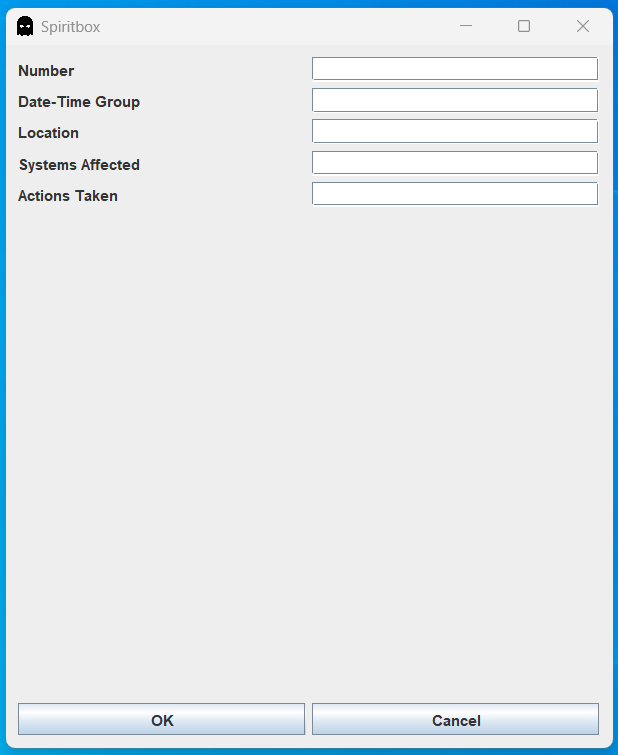
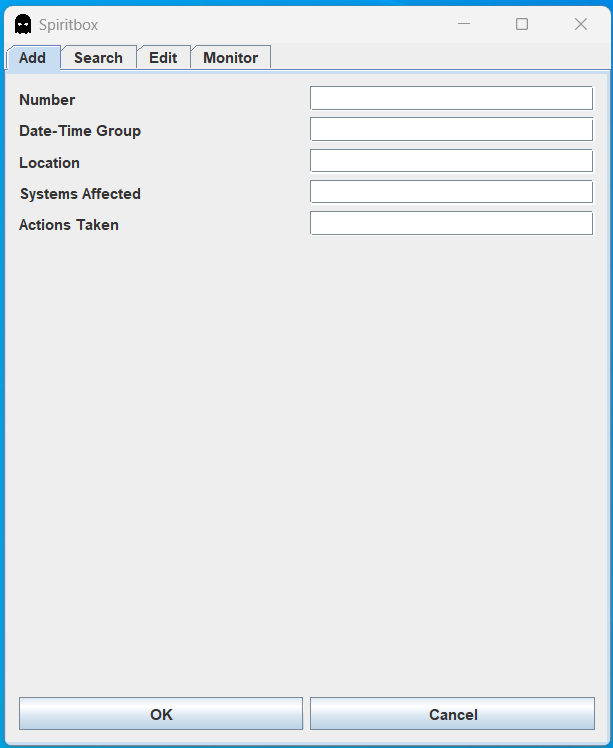
Merged tabbed pane infrastructure

Changed region(s): [[0.0, 0.0, 1.0, 1.0]]

diff --git a/src/Window.java b/src/Window.java
@@ -1,0 +1,94 @@
+import java.awt.*;
+import java.awt.event.ActionEvent;
+import java.awt.event.ActionListener;
+import java.nio.channels.AcceptPendingException;
+
+import javax.swing.*;
+
+public class Window {
+    public void display() {
+        JFrame frame = new JFrame();
+        JTabbedPane tabbedPane = new JTabbedPane(); 
+
+        ////////// Tab 1 //////////
+        JPanel tab1 = new JPanel(); 
+        JPanel tab1Form = new JPanel();
+        JPanel tab1Buttons = new JPanel();
+        JLabel lbNumber = new JLabel("Number");
+        JLabel lbDateTimeGroup = new JLabel("Date-Time Group");
+        JLabel lbLocation = new JLabel("Location");
+        JLabel lbSystemsAffected = new JLabel("Systems Affected");
+        JLabel lbActionsTaken = new JLabel("Actions Taken");
+        JTextField tfNumber = new JTextField();
+        JTextField tfDateTimeGroup = new JTextField();
+        JTextField tfLocation = new JTextField();
+        JTextField tfSystemsAffected = new JTextField();
+        JTextField tfActionsTaken = new JTextField();
+        JButton tab1ButtonOK = new JButton("OK");
+        JButton tab1ButtonCancel = new JButton("Cancel");
+        tab1Form.setLayout(new GridLayout(5, 2, 5, 5)); // set layout so num of rows = num of form fields
+        tab1Form.add(lbNumber);
+        tab1Form.add(tfNumber);
+        tab1Form.add(lbDateTimeGroup);
+        tab1Form.add(tfDateTimeGroup);
+        tab1Form.add(lbLocation);
+        tab1Form.add(tfLocation);
+        tab1Form.add(lbSystemsAffected);
+        tab1Form.add(tfSystemsAffected);
+        tab1Form.add(lbActionsTaken);
+        tab1Form.add(tfActionsTaken);
+        tab1ButtonOK.addActionListener(new ActionListener() {
+            @Override
+            public void actionPerformed(ActionEvent e) {
+                /*
+                String number = tfNumber.getText();
+                String dateTimeGroup = tfDateTimeGroup.getText();
+                String location = tfLocation.getText();
+                lbWelcome.setText(number);
+                */
+            }
+        });
+        tab1ButtonCancel.addActionListener(new ActionListener() {
+            @Override
+            public void actionPerformed(ActionEvent e) {
+                tfNumber.setText("");
+                tfDateTimeGroup.setText("");
+                tfLocation.setText("");
+            }
+        });
+        tab1Buttons.setLayout(new GridLayout(1, 2, 5, 5));
+        tab1Buttons.add(tab1ButtonOK);
+        tab1Buttons.add(tab1ButtonCancel);
+        tab1.setLayout(new BorderLayout());
+        tab1.setBorder(BorderFactory.createEmptyBorder(10,10,10,10));
+        tab1.add(tab1Form, BorderLayout.NORTH);
+        tab1.add(tab1Buttons, BorderLayout.SOUTH);
+        tabbedPane.add("Add", tab1);  
+
+        ////////// Tab 2 //////////
+        JPanel tab2 = new JPanel();  
+        JPanel tab2Form = new JPanel();  
+        tab2.add(tab2Form);
+        tabbedPane.add("Search", tab2);
+
+        ////////// Tab 3 //////////
+        JPanel tab3 = new JPanel(); 
+        JPanel tab3Form = new JPanel();
+        tab3.add(tab3Form);  
+        tabbedPane.add("Edit", tab3);  
+
+        ////////// Tab 4 //////////
+        JPanel tab4 = new JPanel();
+        JPanel tab4Form = new JPanel(); 
+        tab4.add(tab4Form);
+        tabbedPane.add("Monitor", tab4);           
+
+        frame.add(tabbedPane);
+        frame.setIconImage(new ImageIcon(getClass().getResource("ghost.png")).getImage());
+        frame.setTitle("Spiritbox");
+        frame.setSize(500,600);
+        frame.setMinimumSize(new Dimension(300,400));
+        frame.setDefaultCloseOperation(WindowConstants.EXIT_ON_CLOSE);
+        frame.setVisible(true);
+    }
+}

diff --git a/src/Main.java b/src/Main.java
@@ -1,6 +1,5 @@
 import java.time.LocalDateTime;
 
-/*
 public class Main {
     public static void main(String[] args) {
         // declare report
@@ -24,46 +23,8 @@ public class Main {
         // get report
         //report.getReport();
 
-        // show menu
-        Menu menu = new Menu();
-        menu.initialize();
+        // display window
+        Window window = new Window();
+        window.display();
     }
 }
-*/
-
-import javax.swing.*;  
-public class Main { 
-    public static void main(String[] args) {  
-        JFrame f = new JFrame();
-        JTabbedPane tp = new JTabbedPane(); 
-        JPanel p1 = new JPanel();  
-        JPanel p2 = new JPanel();  
-        JPanel p3 = new JPanel(); 
-        JPanel p4 = new JPanel(); 
-
-        // add stuff to pane 1
-        // p1.add();
-
-        // add stuff to pane 2
-        // p2.add();
-
-        // add stuff to pane 3
-        // p3.add();
-
-        // add stuff to pane 4
-        // p4.add();
-
-        // add the tabs to the pane
-        tp.setBounds(50,50,200,200);  
-        tp.add("Add", p1);  
-        tp.add("Search", p2);  
-        tp.add("Edit", p3);  
-        tp.add("Monitor", p4); 
-
-        // add the pane to the frame
-        f.add(tp); 
-        f.setSize(400,400);  
-        f.setLayout(null);  
-        f.setVisible(true);
-    }
-} 
